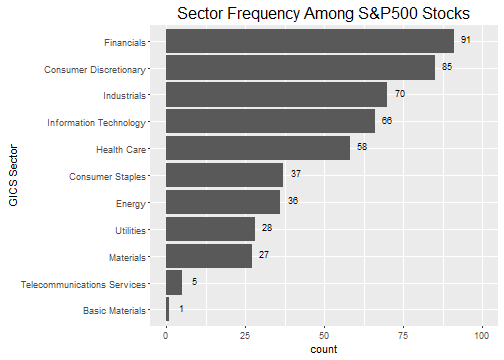
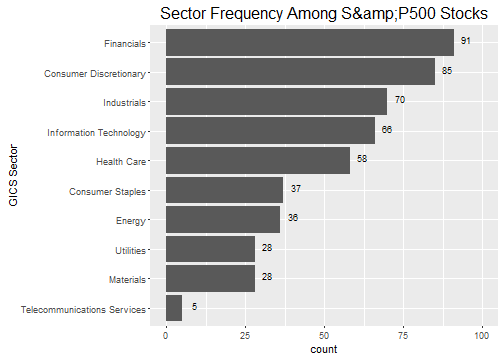
SP500 Post - changed amp signs

diff --git a/_posts/2016-10-23-SP500_Analysis.md b/_posts/2016-10-23-SP500_Analysis.md
@@ -1,6 +1,6 @@
 ---
 layout: post
-title:  "Quantitative Stock Analysis Tutorial: Screening the Returns for Every S&P500 Stock in Less than 5 Minutes"
+title:  "Quantitative Stock Analysis Tutorial: Screening the Returns for Every S&amp;amp;P500 Stock in Less than 5 Minutes"
 categories: [Investments]
 tags: [R-Project, R, Stock Analysis, Trading Strategy, Monte Carlo, Web Scraping, quantmod, xts, rvest, tidyverse, purrr, plotly, corrplot]
 image: stockAnalysisPlotly.png
@@ -11,7 +11,7 @@ image: stockAnalysisPlotly.png
 
 
 
-Quantitative trading strategies are easy to develop in __R__ if you can manage the data workflow. In this post, I analyze every stock in the S&P500 to screen in terms of __risk versus reward__. I'll show you how to use `quantmod` to collect daily stock prices and calculate log returns, `rvest` to web scrape the S&P500 list of stocks from _Wikipedia_, `purrr` to map functions and perform calculations on nested tibbles (`tidyverse` data frames), and `plotly` to visualize risk versus reward and extract actionable information for use in your trading strategies. At the end, you will have a visualization that compares the entire set of S&P 500 stocks, and we'll screen them to find those with the best future prospects on a quantitative basis. As a bonus we'll investigate correlations to add diversification to your portfolio.  Finally, the code that generates the `plotly` and `corrplot` visualizations is made available on [GitHub](https://github.com/mdancho84/quantitative_stock_analysis_tutorial) for future stock screening. Whether you are a veteran trader or a newbie stock enthusiast, you'll learn a useful workflow for modeling and managing massive data sets using the `tidyverse` packages. And, the entire script runs in __less than five minutes__ so you can begin screening stocks quickly. 
+Quantitative trading strategies are easy to develop in __R__ if you can manage the data workflow. In this post, I analyze every stock in the S&amp;P500 to screen in terms of __risk versus reward__. I'll show you how to use `quantmod` to collect daily stock prices and calculate log returns, `rvest` to web scrape the S&amp;P500 list of stocks from _Wikipedia_, `purrr` to map functions and perform calculations on nested tibbles (`tidyverse` data frames), and `plotly` to visualize risk versus reward and extract actionable information for use in your trading strategies. At the end, you will have a visualization that compares the entire set of S&amp;P 500 stocks, and we'll screen them to find those with the best future prospects on a quantitative basis. As a bonus we'll investigate correlations to add diversification to your portfolio.  Finally, the code that generates the `plotly` and `corrplot` visualizations is made available on [GitHub](https://github.com/mdancho84/quantitative_stock_analysis_tutorial) for future stock screening. Whether you are a veteran trader or a newbie stock enthusiast, you'll learn a useful workflow for modeling and managing massive data sets using the `tidyverse` packages. And, the entire script runs in __less than five minutes__ so you can begin screening stocks quickly. 
 
 
 # Table of Contents
@@ -21,8 +21,8 @@ Quantitative trading strategies are easy to develop in __R__ if you can manage t
     * [Exploring the Quantmod Package](#quantmod)
     * [Simulating Stock Prices](#sim)
     * [Understanding Drivers of the Simulation](#sim-drivers)
-  * [Stock Analysis: Expanded to All S&P500 Stocks](#sa-sp500)
-    * [Web Scraping: Get the List of S&P500 Stocks](#web-scraping)
+  * [Stock Analysis: Expanded to All S&amp;P500 Stocks](#sa-sp500)
+    * [Web Scraping: Get the List of S&amp;P500 Stocks](#web-scraping)
     * [Creating Functions to Map](#create-functions)
     * [Mapping the Functions](#map-functions)
     * [Visualizing the Results with Plotly](#visualize-results) 
@@ -54,7 +54,7 @@ If you dont' have these installed, run `install.packages(pkg_names)` with the pa
 
 # Stock Analysis: An Individual Stock <a class="anchor" id="sa-individual"></a>
 
-Before we extrapolate to a __full-blown S&P 500 Analysis__, we need to understand how to analyze a single stock. We'll walk through three steps to quickly get you up to speed on quantitatively analyzing stock returns:
+Before we extrapolate to a __full-blown S&amp;P 500 Analysis__, we need to understand how to analyze a single stock. We'll walk through three steps to quickly get you up to speed on quantitatively analyzing stock returns:
 
 1. [Exploring the Quantmod Package](#quantmod)
 2. [Simulating Stock Prices](#sim)
@@ -108,7 +108,7 @@ MA %>% str()
 ##   xts Attributes:  
 ## List of 2
 ##  $ src    : chr "yahoo"
-##  $ updated: POSIXct[1:1], format: "2016-10-23 14:06:26"
+##  $ updated: POSIXct[1:1], format: "2016-10-24 08:36:23"
 {% endhighlight %}
 
 
@@ -445,24 +445,24 @@ We now know how to analyze an individual stock using log returns, but wouldn't i
 Uh... yes! This is easy to do. Let's get going!
 
 
-# Stock Analysis: Expanded to All S&P500 Stocks <a class="anchor" id="sa-sp500"></a>
+# Stock Analysis: Expanded to All S&amp;P500 Stocks <a class="anchor" id="sa-sp500"></a>
 
-We'll expand to a __full blown S&P500 Analysis__ following the modeling process workflow from [R For Data Science, Chapter 25: Many Models](http://r4ds.had.co.nz/many-models.html). Once we have a modeling process down for an individual stock, we can map it to many stocks using a modeling workflow. Our workflow involves four steps:
+We'll expand to a __full blown S&amp;P500 Analysis__ following the modeling process workflow from [R For Data Science, Chapter 25: Many Models](http://r4ds.had.co.nz/many-models.html). Once we have a modeling process down for an individual stock, we can map it to many stocks using a modeling workflow. Our workflow involves four steps:
 
-1. [Get the list of S&P500 stocks.](#web-scraping)
+1. [Get the list of S&amp;P500 stocks.](#web-scraping)
 2. [Create functions that retrieve needed data from a single stock. We'll need to get stock prices, and compute log-returns.](#create-functions)
 3. [Utilize `purrr` to `map()` the functions across all stocks.](#map-functions)
 4. [Visualize the results.](#visualize-results)
 
 
-## Web Scraping: Get the List of S&P500 Stocks <a class="anchor" id="web-scraping"></a>
+## Web Scraping: Get the List of S&amp;P500 Stocks <a class="anchor" id="web-scraping"></a>
 
-We'll use the `rvest` package to collect S&P500 stocks from [Wikipedia](https://en.wikipedia.org/wiki/List_of_S%26P_500_companies). We use `read_html()` to collect the HTML from Wikipedia. Then, we parse the HTML to a data frame using `html_node()` and `html_table()`. At the end, I return the data as a `tibble`, and the cleanup the column names.
+We'll use the `rvest` package to collect S&amp;P500 stocks from [Wikipedia](https://en.wikipedia.org/wiki/List_of_S%26P_500_companies). We use `read_html()` to collect the HTML from Wikipedia. Then, we parse the HTML to a data frame using `html_node()` and `html_table()`. At the end, I return the data as a `tibble`, and the cleanup the column names.
 
 
 {% highlight r %}
 library(rvest)
-# Web-scrape S&P500 stock list
+# Web-scrape S&amp;P500 stock list
 sp_500 <- read_html("https://en.wikipedia.org/wiki/List_of_S%26P_500_companies") %>%
     html_node("table.wikitable") %>%
     html_table() %>%
@@ -517,7 +517,7 @@ sp_500 %>%
 
 {% highlight text %}
 ##     ticker.symbol          security       gics.sector 
-##               505               504                11 
+##               505               504                10 
 ## gics.sub.industry 
 ##               127
 {% endhighlight %}
@@ -570,7 +570,7 @@ sp_500 <- sp_500 %>%
     filter(ticker.symbol != "UA.C")
 {% endhighlight %}
 
-__Back to inspecting the S&P500 data:__
+__Back to inspecting the S&amp;P500 data:__
 
 We know from the `apply()` function that there are 504 securities that are in 126 sub industries and in 10 sectors. However, we might want to understand the distribution of securities by sector. I again use `group_by()` and `summarise()` to get counts. In the visualization, I use `forcats::fct_reorder()` to organize the `gics.sector` by greatest frequency (`count`). The `forcats` package makes organizing `factor` categories a breeze in R, which previously was a huge pain! Check out [R for Data Science, Chapter 15: Factors](http://r4ds.had.co.nz/factors.html) for help working with factors.
 
@@ -587,7 +587,7 @@ sp_500 %>%
     geom_bar(stat = "identity") +
     geom_text(aes(label = count), size = 3, nudge_y = 4, nudge_x = .1) + 
     scale_y_continuous(limits = c(0,100)) +
-    ggtitle(label = "Sector Frequency Among S&P500 Stocks") +
+    ggtitle(label = "Sector Frequency Among S&amp;P500 Stocks") +
     xlab(label = "GICS Sector") +
     theme(plot.title = element_text(size = 16)) + 
     coord_flip() 
@@ -604,7 +604,7 @@ Separating the distribution of securities into industry sectors shows us our opt
 We are going to dive into some structural aspects of <code>xts</code> and <code>tibble</code> objects. Feel free to skip the details and copy the functions in this section. You will still be able to follow along.  
 </p>
 
-We have a tidy data frame (`tibble`) of S&P500 securities stored in the variable `sp_500`. We want to perform some functions on the data frame such as:
+We have a tidy data frame (`tibble`) of S&amp;P500 securities stored in the variable `sp_500`. We want to perform some functions on the data frame such as:
 
 1. Getting the stock prices for each security using `getSymbols()`.
 2. Getting the log returns of the stock prices `periodReturn()`.
@@ -735,7 +735,7 @@ Now the fun part! We are going to use `purrr::map()` to build a nested data fram
 It's OK if the script below doesn't make sense. We'll get a feel for what happened by exploring the results.
 
 <p class="text-warning">
-<strong>Warning:</strong> The following script stores the stock prices and log returns for the entire list of 504 stocks in the S&P500. It takes my laptop a minute or two to run the script.
+<strong>Warning:</strong> The following script stores the stock prices and log returns for the entire list of 504 stocks in the S&amp;P500. It takes my laptop a minute or two to run the script.
 </p>
 
 
@@ -841,13 +841,13 @@ sp_500 %>%
 
 __To recap:__
 
-Essentially, we collected the stock prices for every S&P500 stock ticker using `get_stock_prices()`, then passed each set of stock prices to `get_log_returns()`, then sent the log returns for each stock to the `median()` and `sd()` functions to return the values we want to compare on. Pretty cool;) 
+Essentially, we collected the stock prices for every S&amp;P500 stock ticker using `get_stock_prices()`, then passed each set of stock prices to `get_log_returns()`, then sent the log returns for each stock to the `median()` and `sd()` functions to return the values we want to compare on. Pretty cool;) 
 
 You may also see that I added a variable, `n.trade.days`, for the number of trade days (observations) for the stock. We want stocks with a large number of observations because this gives us more samples (and a longer time span) to trend the stock, thus increasing our confidence in the statistics. This will come in handy when we perform our visualization next.
 
 ## Visualizing the Results with Plotly <a class="anchor" id="visualize-results"></a>
 
-Back to the main purpose: we want to compare all of the S&P500 stocks based on risk versus reward. As stated before, we consider: 
+Back to the main purpose: we want to compare all of the S&amp;P500 stocks based on risk versus reward. As stated before, we consider: 
 
 * Rewarding stocks have a higher mean of the log returns (measure of growth).
 * Riskier stocks have a higher standard deviation of the log returns (measure of volatility). 
@@ -878,7 +878,7 @@ plot_ly(data   = sp_500,
                       sizeref = 4.0,
                       line = list(width = 2, color = '#FFFFFF'))
         ) %>%
-layout(title   = 'S&P500 Analysis: Stock Risk vs Reward',
+layout(title   = 'S&amp;P500 Analysis: Stock Risk vs Reward',
        xaxis   = list(title = 'Risk: StDev Log Returns',
                     gridcolor = 'rgb(255, 255, 255)',
                     zerolinewidth = 1,
@@ -1096,7 +1096,7 @@ The quantitative strategy provides a useful way to characterize the prospects of
 
 # Recap <a class="anchor" id="recap"></a>
 
-We covered a lot of ground in this post: starting from a basic quantitative stock analysis, and ending on __a full fleged S&P500 stock screening workflow__! If you've read and understood the full post, congratulations! This post required an understanding of quantitative stock analysis, R programming, and many powerful R packages including:
+We covered a lot of ground in this post: starting from a basic quantitative stock analysis, and ending on __a full fleged S&amp;P500 stock screening workflow__! If you've read and understood the full post, congratulations! This post required an understanding of quantitative stock analysis, R programming, and many powerful R packages including:
 
 * `quantmod`: Retrieving stock prices (`getSymbols()`) and returns (`periodReturns()`), and visualizing stock charts (`chartSeries()`)
 * `xts` (extensible timeseries) objects: A key structure in R for timeseries data
@@ -1110,7 +1110,7 @@ We covered a lot of ground in this post: starting from a basic quantitative stoc
 * `plotly`: For interactive visualizations
 * `corrplot`: For visualizing correlation plots
 
-Probably the most important concept is that you now should have a basic understanding of a __modeling workflow__: Developing the analysis for a single observation (e.g. a stock ticker), and then expanding it to many observations (e.g. the entire S&P500 list of stock tickers). 
+Probably the most important concept is that you now should have a basic understanding of a __modeling workflow__: Developing the analysis for a single observation (e.g. a stock ticker), and then expanding it to many observations (e.g. the entire S&amp;P500 list of stock tickers). 
 
 Again, great job for making it this far! Happy investing. :)
 
